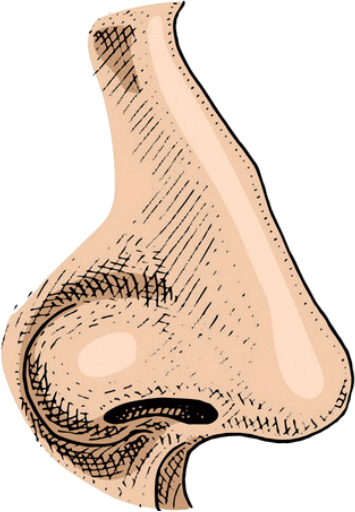
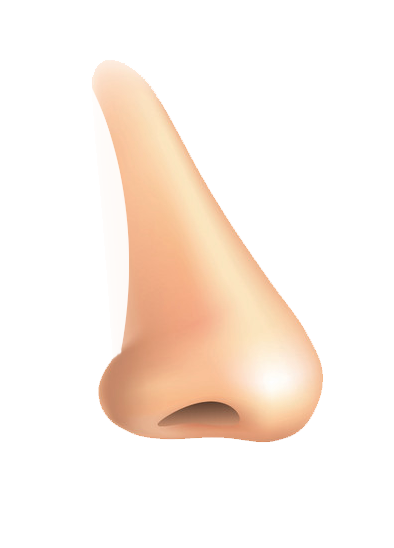
Nuovo naso

diff --git a/naso-ng/src/app/components/panino/panino.component.html b/naso-ng/src/app/components/panino/panino.component.html
@@ -12,7 +12,7 @@
             <tspan style="stroke-width:0.49706915" id="tspan967" x="50.070648" y="91.720268">dal racconto <tspan
                     id="tspan892"
                     style="font-style:italic;font-variant:normal;font-weight:normal;font-stretch:normal;font-size:8.61586666px;font-family:'Goudy Old Style';-inkscape-font-specification:'Goudy Old Style, Italic';font-variant-ligatures:normal;font-variant-caps:normal;font-variant-numeric:normal;font-feature-settings:normal;text-align:center;writing-mode:lr-tb;text-anchor:middle">
-                    Il Naso</tspan>  &nbsp; di N. Gogol’</tspan>
+                    Il Naso</tspan> &nbsp; di N. Gogol’</tspan>
         </text>
 
         <g *ngIf="step === 'spinning'" style="transform: translate(50px,54px) scale(0.8);">
@@ -29,8 +29,9 @@
                     id="image1078" x="15" y="55.299999" style="display:inline" />
             </g>
             <g id="panino-naso" [@naso]="breadUp">
-                <image xlink:href="./assets/naso.png" width="19.684422" height="28.389927" preserveAspectRatio="none"
-                    id="image1056" x="39" y="39" style="display:inline" />
+                <image width="43.809399" height="60.932877" preserveAspectRatio="none"
+                    xlink:href="./assets/naso.png"
+                    x="-22.227919" y="-38.775108" style="display:inline" />
             </g>
             <g id="panino-sopra" [@bread]="breadUp">
                 <image xlink:href="./assets/panino-upper.png" width="70" height="24.412498" preserveAspectRatio="none"

diff --git a/naso-ng/src/app/components/panino/panino.component.ts b/naso-ng/src/app/components/panino/panino.component.ts
@@ -30,10 +30,10 @@ import { Router } from '@angular/router';
     trigger('naso', [
       // states
       state('none', style({
-        transform: 'translate(39px,39px) scale(0.4) translate(-39px,-39px)',
+        transform: 'translate(50px,55px) scale(0.4)',
       })),
       state('up', style({
-        transform: 'translate(39px,39px) scale(1.1) translate(-39px,-39px)',
+        transform: 'translate(50px,60px) scale(0.8)',
       })),
       // transitions
       transition('none => up', animate('10000ms')),
